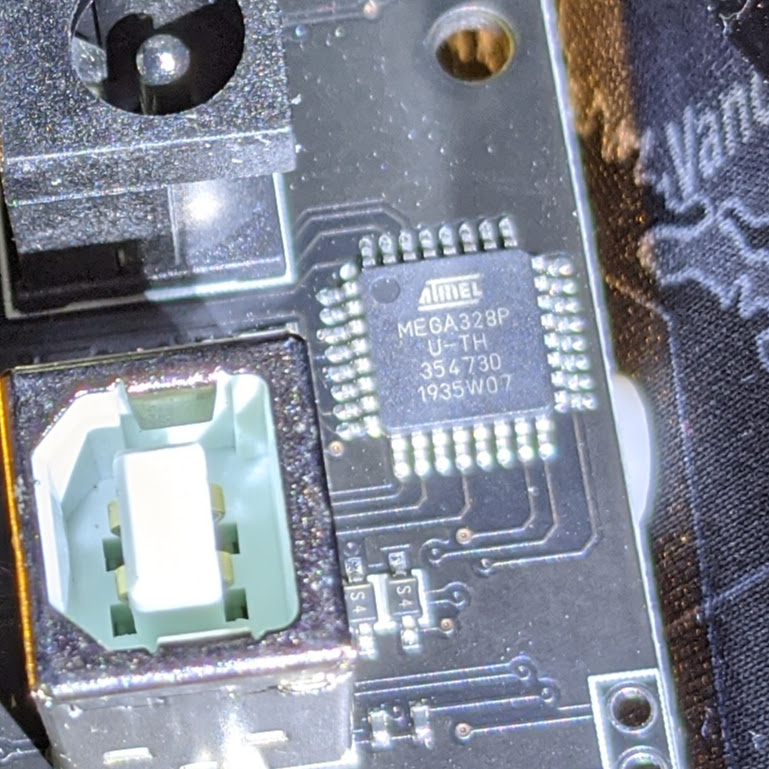
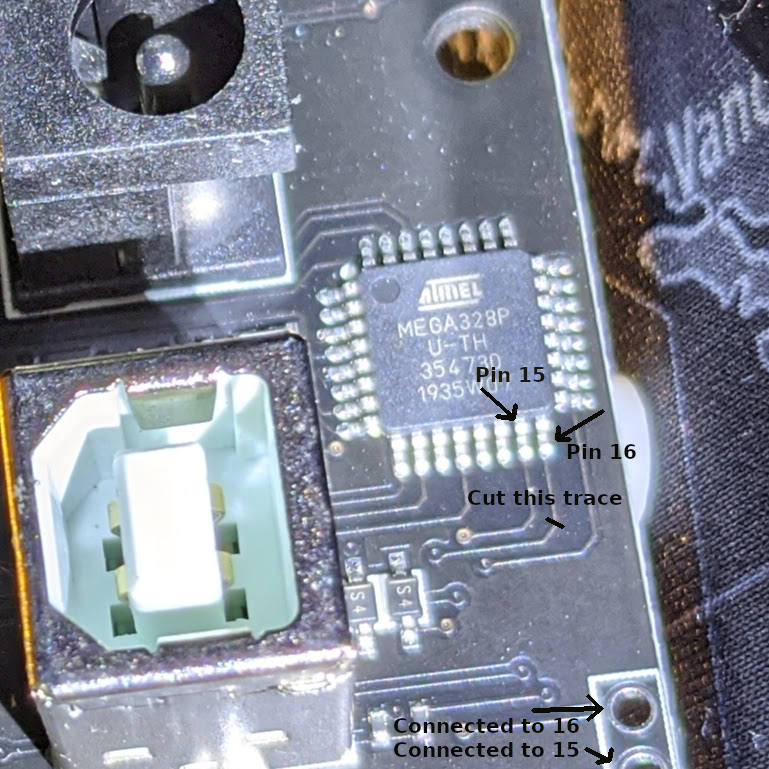
fix doc, annotate pix

diff --git a/README.md b/README.md
@@ -5,8 +5,7 @@ were being smart by choosing one that's
 [Grbl](https://github.com/gnea/grbl/)-compatible. But you didn't realize it ran
 only ancient Grbl 0.8, which doesn't support the awesome
 [Laser Mode](https://github.com/gnea/grbl/wiki/Grbl-v1.1-Laser-Mode) (setting
-$32) that makes your engraver perform at its maximum capabilities. You can
-upgrade the firmware to
+$32) that makes your engraver perform better. You can upgrade the firmware to
 [the latest Grbl version](https://github.com/gnea/grbl/releases), and it still
 sort of works, except (1) it won't let you enable Laser Mode, and (2) the laser
 doesn't turn on anymore.
@@ -34,7 +33,7 @@ neighbor does. Thus the swap.
 You're probably here because your Grbl-compatible board was actually designed
 for old Grbl, so D12 controls the laser, and a probably nonexistent Z-axis
 limiter switch input is connected to D11. (It's probably nonexistent because
-most laser engravers move only along the X/Y axes). This is a hardware problem.
+most laser engravers move only along the X/Y axes.) This is a hardware problem.
 But you can fix it.
 
 ## Requirements
@@ -55,34 +54,37 @@ But you can fix it.
 
 1. Remove the board. Unscrew the screws and pull off the cables.
 
-1. Compare to this photo. It should look similar:
+2. Compare to this photo. It should look similar:
 
 ![NEJE board](img/IMG_20200226_194045.jpg)
 
-1. Find the trace leading from the atmega328p's D12 pin (which in AVR land is
-   called pin 16). Use a continuity tester to verify that the trace really is
-   broken:
+3. Find the trace leading from the atmega328p's D12 pin (which in AVR land is
+   called pin 16).
 
 ![328p close-up, pin 16](img/IMG_20200226_194448.jpg)
 
-1. With your knife, cut the trace leading from pin 16.
+4. With your knife, cut the trace leading from pin 16. Use a continuity tester
+   to verify that the trace really is broken. An easy way to test is to put one
+   probe on pin 16, and the other in the closest empty hole in the header row
+   near the 328p.
 
-1. Connect the two empty header holes that are closest to the 328p. I soldered
+5. Connect the two empty header holes that are closest to the 328p. I soldered
    part of a diode leg, but you might just choose to thread a wire through the
-   two and twist it tightly if you don't have soldering equipment.
+   two and twist it tightly if you don't have soldering equipment. Connecting
+   those two holes is the same as connecting the laser to pin 15 (D11).
 
 ![Modified NEJE board](img/IMG_20200227_172709.jpg)
 
-1. Put the laser engraver back together again. Plug it into your computer.
+6. Put the laser engraver back together again. Plug it into your computer.
 
-1. Download
+7. Download
    [the latest .hex from the Grbl releases page](https://github.com/gnea/grbl/releases).
 
-1. Install avrdude (on Ubuntu that's `sudo apt install avrdude`) and flash the .hex:
+8. Install avrdude (on Ubuntu that's `sudo apt install avrdude`) and flash the .hex:
 
 `avrdude.exe -p m328p -c arduino -p /dev/ttyUSB0 -b 57600 -U flash:w:"grbl_v1.1h.20190825.hex":a`
 
-1. Fire up your favorite laser-engraver application, make sure Laser Mode ($32)
+9. Fire up your favorite laser-engraver application, make sure Laser Mode ($32)
    is enabled, and watch your laser engraver move and cut more precisely than
    ever before!
 
